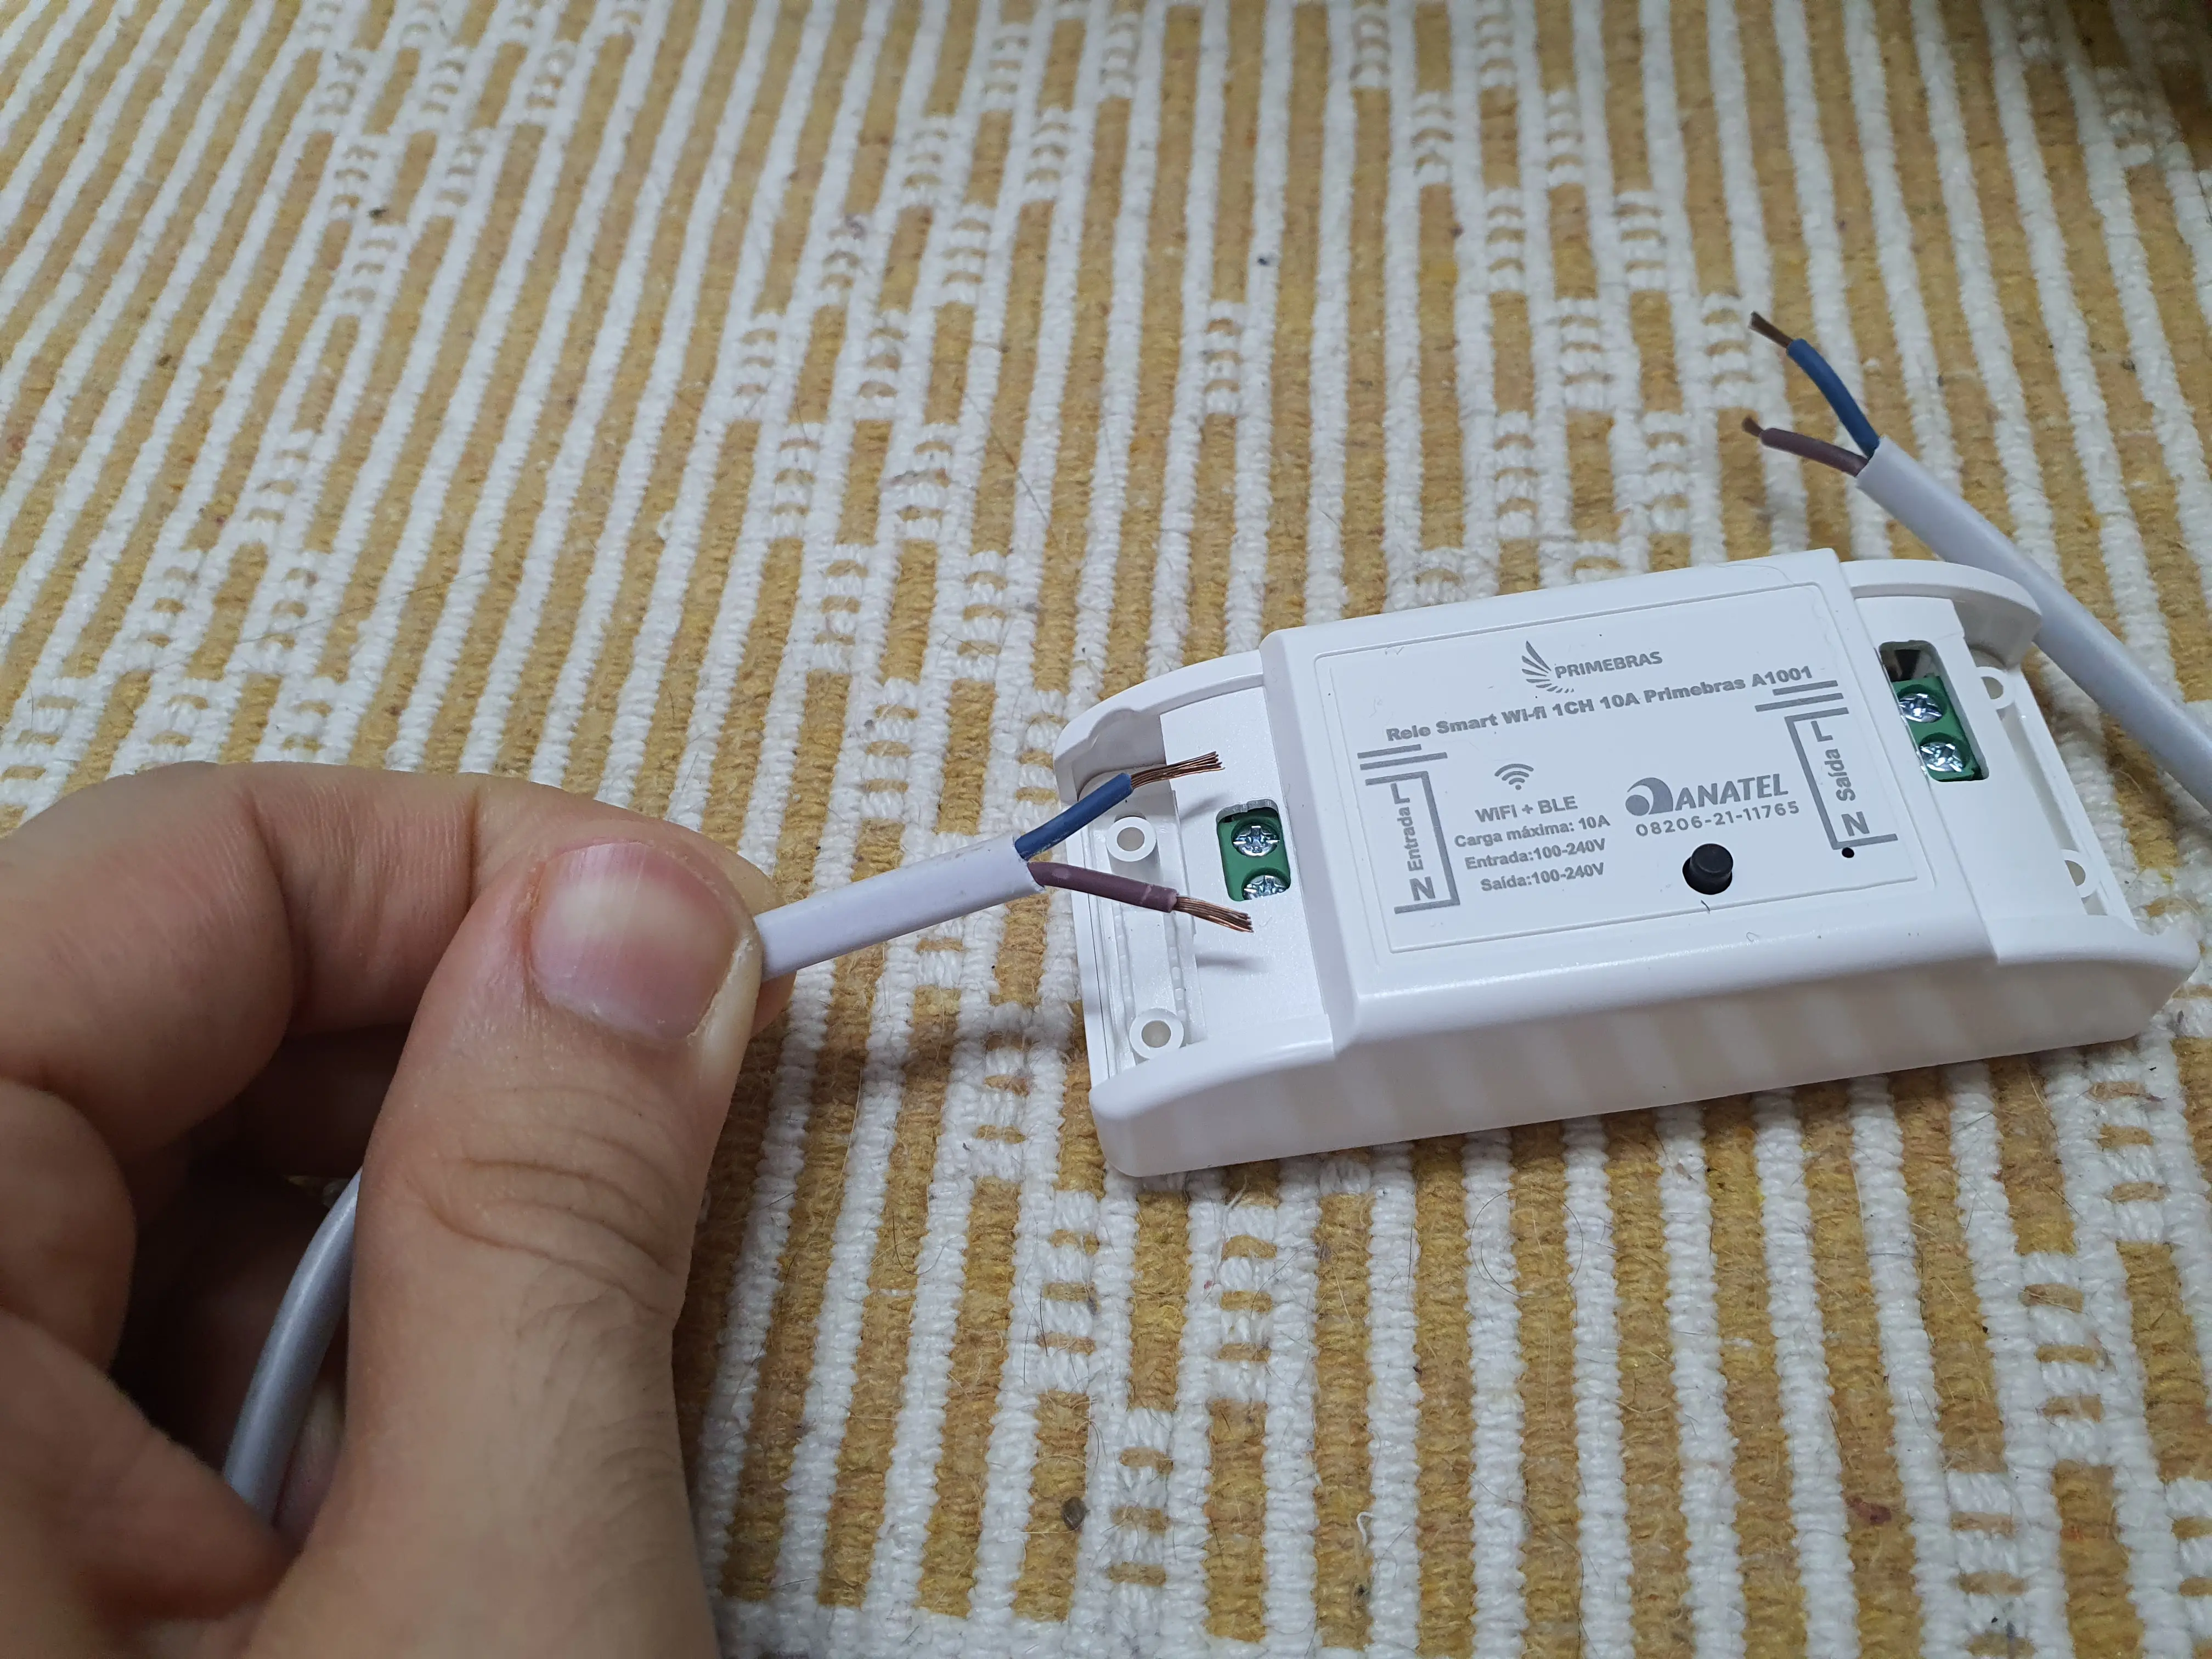
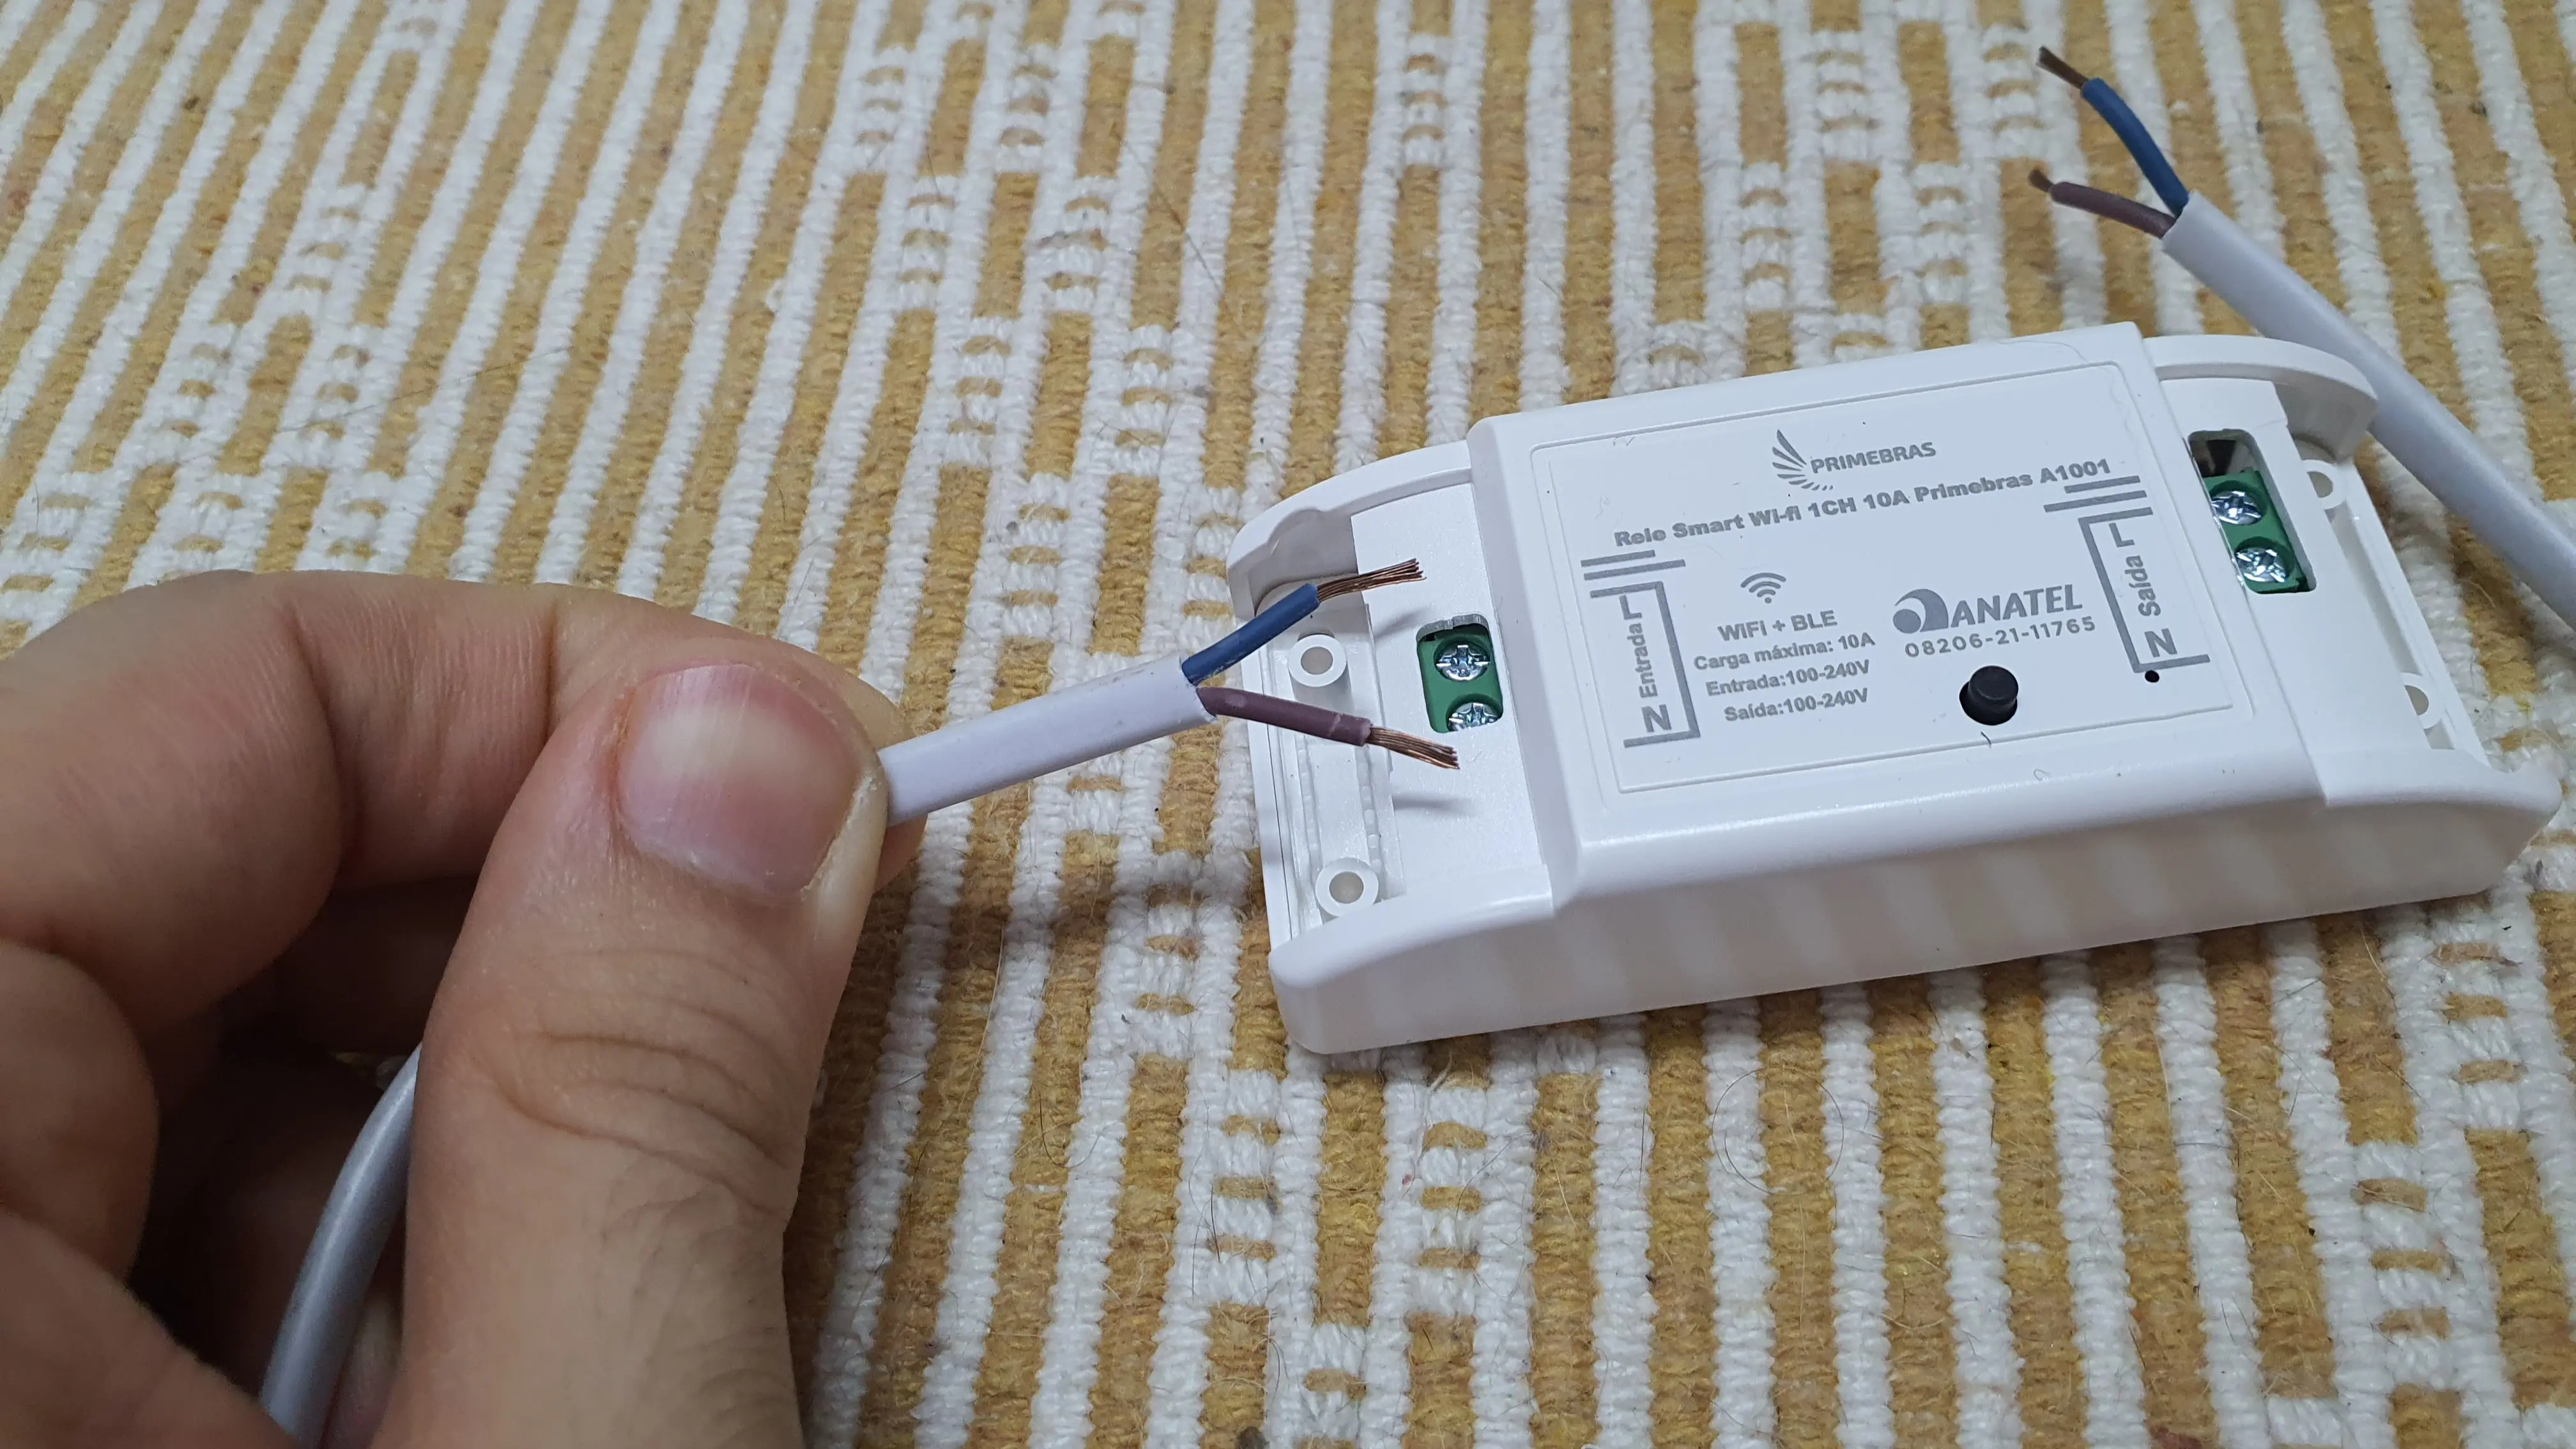
testing the server

diff --git a/content/en/posts/auto-egg-boiler/auto-egg-boiler.md b/content/en/posts/auto-egg-boiler/auto-egg-boiler.md
@@ -1,7 +1,7 @@
 ---
 title: "Automated Egg Boiler"
-date: 2024-04-25
-draft: false
+date: 2024-04-25:T22:03Z
+draft: true
 tags: ["fun", "hacking", "weekend projects"]
 cover:
   image: "/en/posts/auto-egg-boiler/egg_boiler_ready.webp"
@@ -18,9 +18,9 @@ Besides this inconvenience, I want to wake up with my eggs ready for eating. So,
 
  ## The "smart" relay
 
-I went with a model [like this one](https://amzn.to/3Uafdkz) (mine is a bit different because I bought here in Brazil, but should be very similar). It's very intuitive to wire it: the plug wires go to the "input" side and the boiler wires go to the "output" side.
+I went with a model [like this one](https://amzn.to/3Uafdkz) (mine is a bit different because I bought here in Brazil, but should be very similar). It's very intuitive to wire it: the plug wires go to the "input" side and the boiler wires go to the "output" side. test test test.
 
-<!-- wiring pics -->
+![Wiring 1](/en/posts/auto-egg-boiler/wiring1.webp "This is how the wires go")
 
 ## Testing the relay
 